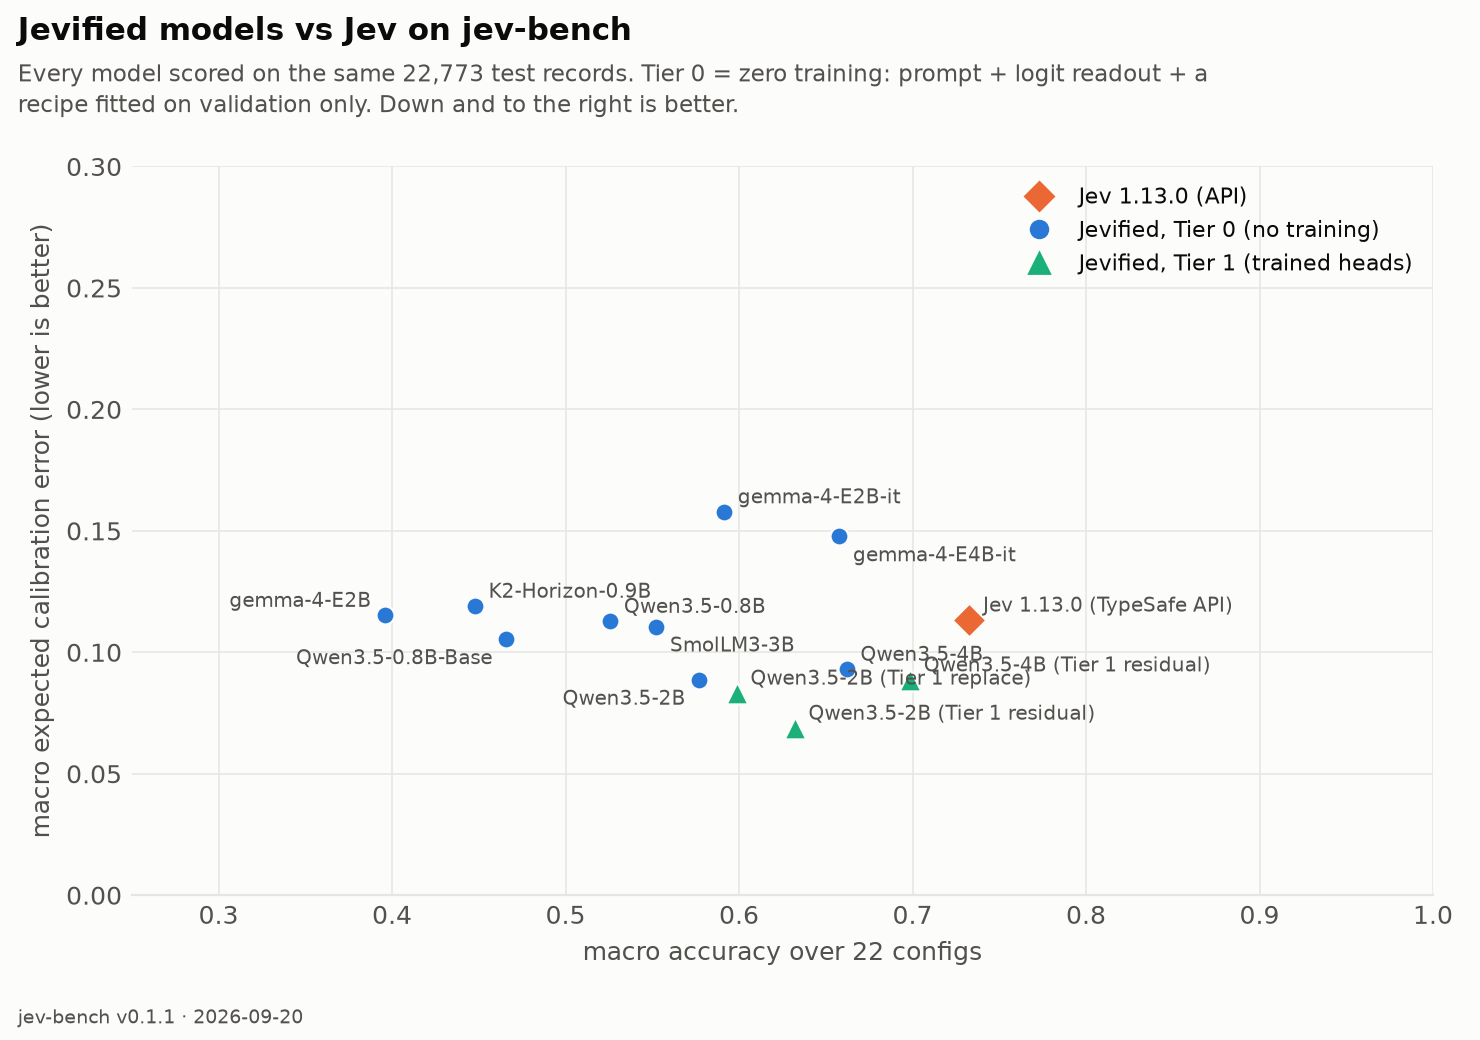
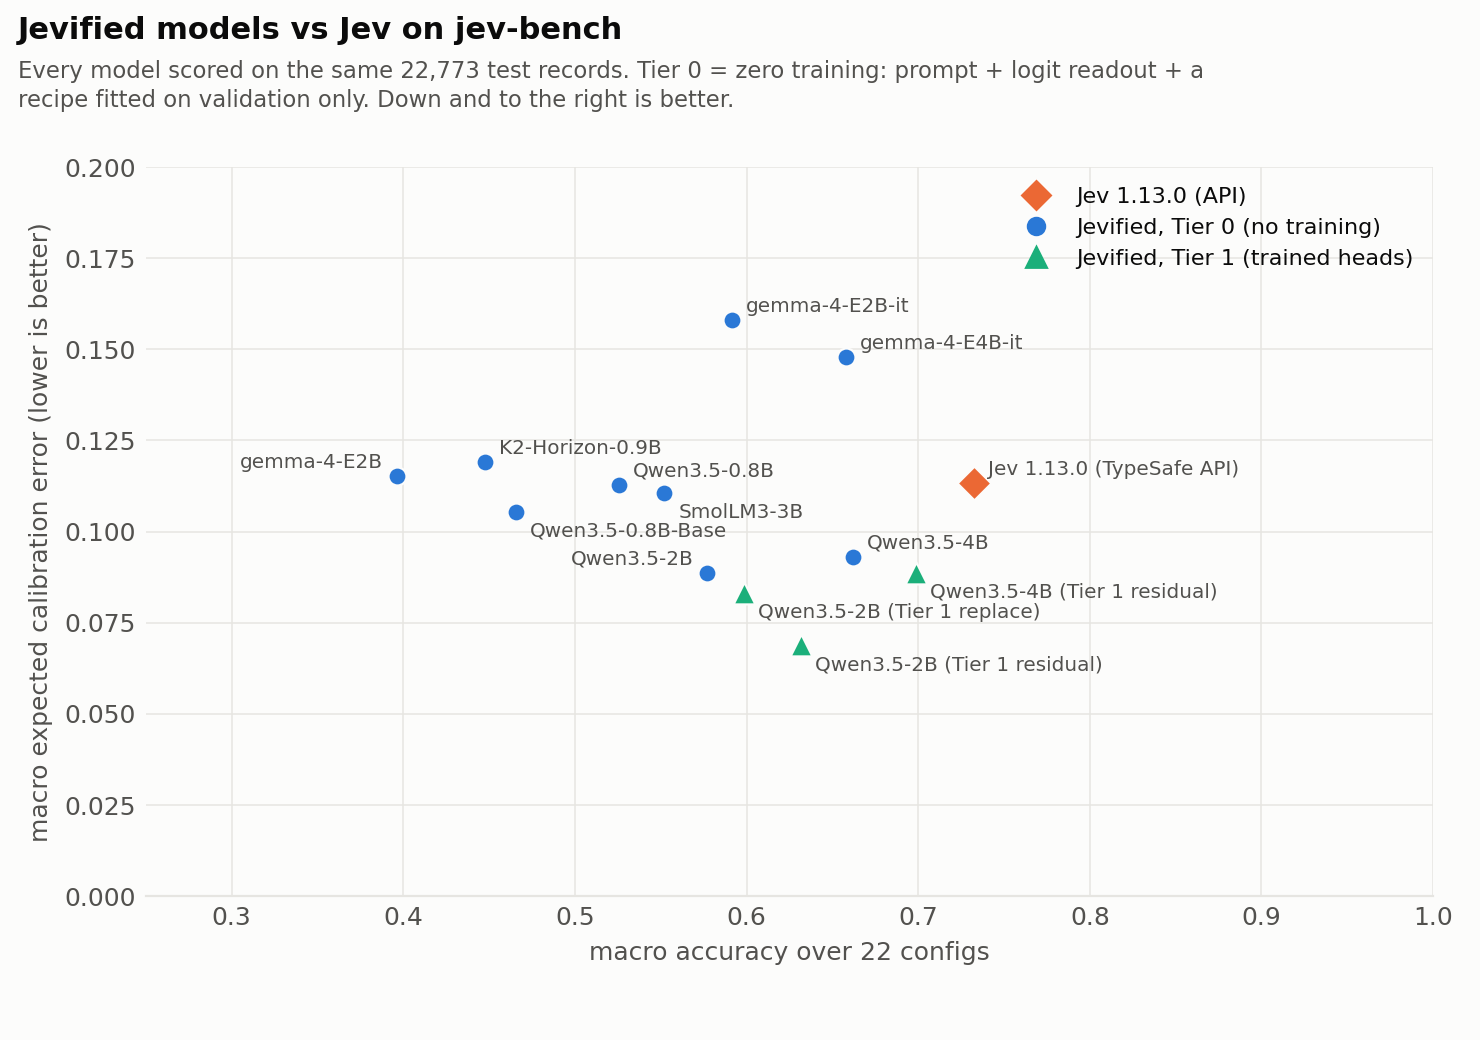
models_map: fit the y-range to the data (differences were squeezed into the bottom third); regenerated with the fixed label placer

diff --git a/jevify/bench/figures.py b/jevify/bench/figures.py
@@ -542,7 +542,9 @@ def fig_models_map(rows: list[dict[str, Any]], out: Path, title: str = "Jevified
         label = e["label"].split("/")[-1] if "/" in e["label"] else e["label"]
         pts.append((label, s["acc"], s["ece"]))
     ax.set_xlabel("macro accuracy over 22 configs"); ax.set_ylabel("macro expected calibration error (lower is better)")
-    ax.set_xlim(0.25, 1.0); ax.set_ylim(0, max(0.3, max(p[2] for p in pts) + 0.03))
+    # y stops a little above the worst model rather than at a fixed 0.30: the interesting
+    # differences are a few hundredths of ECE and were squeezed into the bottom third
+    ax.set_xlim(0.25, 1.0); ax.set_ylim(0, max(0.2, max(p[2] for p in pts) + 0.04))
     from matplotlib.lines import Line2D
     ax.legend(handles=[Line2D([0], [0], marker="D", color="#eb6834", lw=0, markersize=7, label="Jev 1.13.0 (API)"),
                        Line2D([0], [0], marker="o", color=PRIM_COLOR["choice"], lw=0, markersize=6, label="Jevified, Tier 0 (no training)"),
